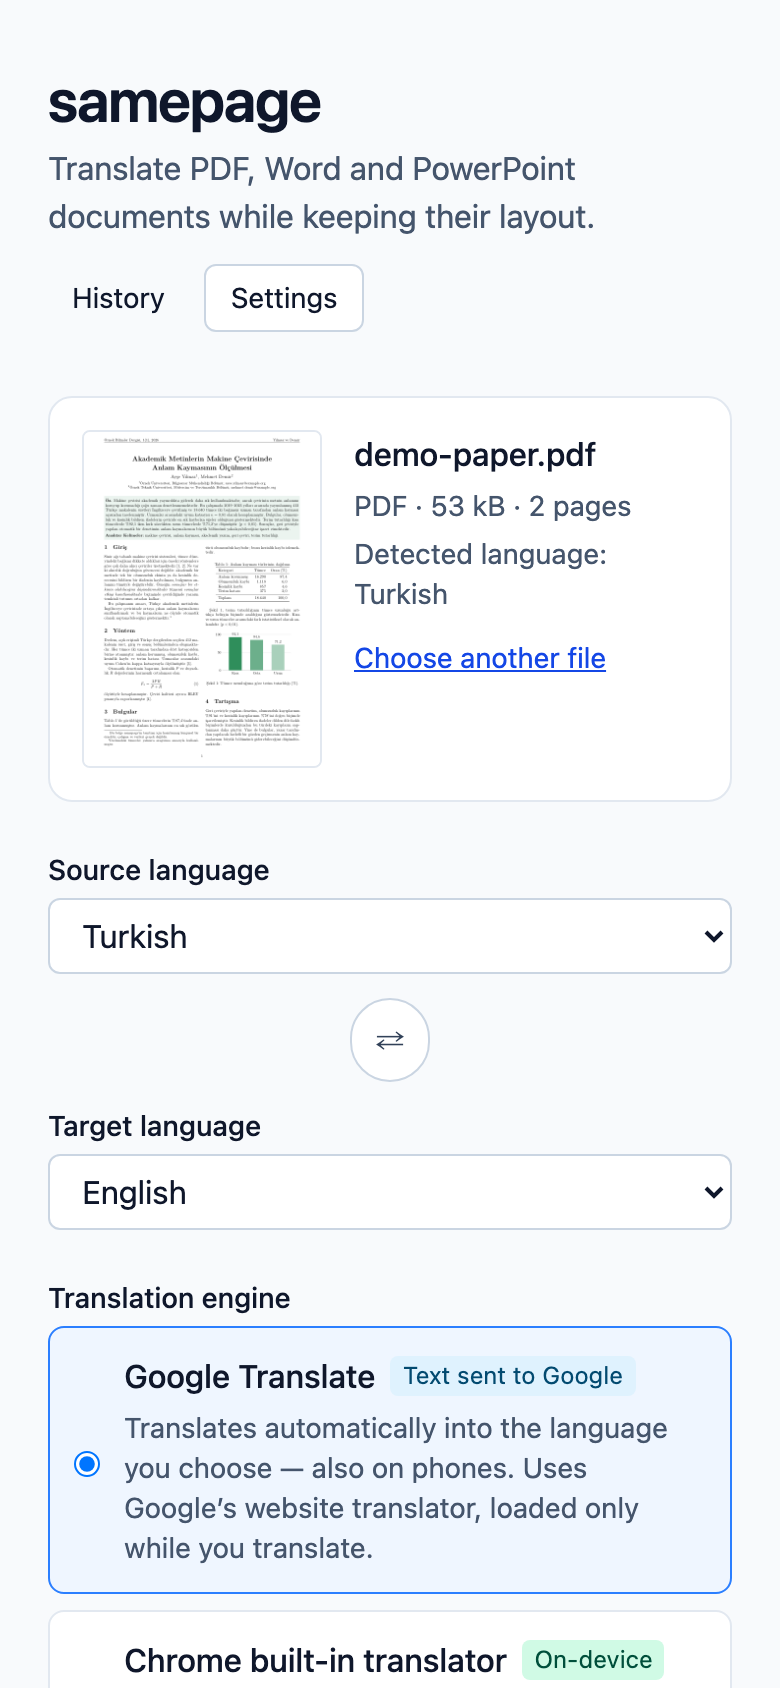
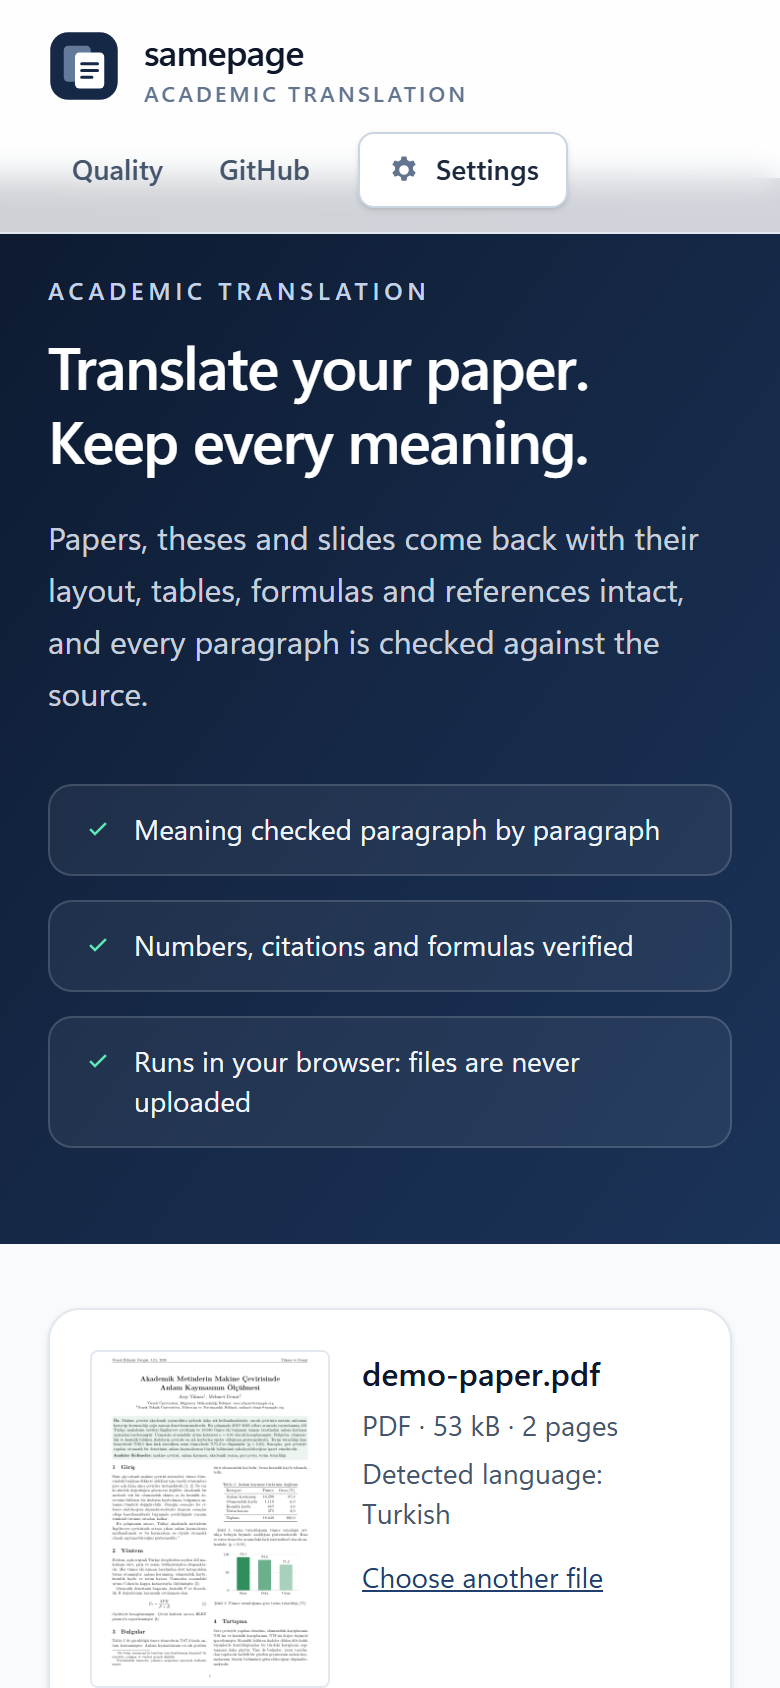
1.1.0: each paragraph from its own language, word documents tested on 54 papers, new look

diff --git a/README.md b/README.md
@@ -45,9 +45,13 @@ the paper says.
   found with full, booktabs or single rules and also without any rule, from their caption, and
   keep their rules and column alignment; footnote marks become Word footnotes and every
   reference entry its own paragraph.
-- **Meaning first.** Numbers, units, citations, formulas and identifiers are locked. A meaning
-  check translates the result back and flags lost negations, softened or hardened claims
-  ("results suggest" → "results reveal") and changed quantifiers ("most" → "all"). You can
+- **Meaning first.** Numbers, units, citations, formulas and identifiers are locked. Each
+  paragraph is translated from its own language — an English abstract in a Turkish paper, a German
+  quotation, the Arabic body of a paper with an English abstract — and one already in the target
+  language stays as written. Code in Word and PowerPoint files (commands, listings) stays as
+  written. A meaning check translates the result back and flags lost negations, softened or
+  hardened claims ("results suggest" → "results reveal") and changed quantifiers ("most" → "all"),
+  asking again in English before it reports one. You can
   compare every paragraph sentence by sentence, even in a language you do not read. With your own
   Claude key, the flagged sentences are revised automatically (British or American spelling).
 - **Abstract only.** For journals that ask for a second-language abstract: samepage finds the
@@ -87,7 +91,7 @@ the paper says.
 It works the same on a phone:
 
 <p align="center">
-  <img src="media/phone.png" alt="samepage on a phone: the demo paper chosen, Turkish to English, Google Translate engine" width="260">
+  <img src="media/phone.png" alt="samepage on a phone: the demo paper chosen and its language detected" width="260">
   &nbsp;&nbsp;&nbsp;
   <img src="media/phone-result.png" alt="samepage on a phone: downloads, quality report and preview after the translation" width="260">
 </p>
@@ -153,14 +157,20 @@ trips (a paper translated into another language and back) to measure meaning dri
 runs with the free Google engine on 29 papers in all 17 languages (about 8,100 paragraphs,
 including chemistry, law and mathematical physics),
 99.9 % of the paragraphs came out translated with their numbers intact; the rest, OCR noise of a
-1979 scan, were kept in the original and reported. About 2 % carried a warning to review. Those
-papers are not part of this repository; [`media/demo-paper.pdf`](media/demo-paper.pdf) is a
+1979 scan, were kept in the original and reported. About 2 % carried a warning to review. Word
+documents were run the same way: 54 papers from Zenodo in 19 languages (about 14,300 paragraphs,
+with code, tables, footnotes, text boxes, Arabic and mixed-language papers), 99.9 % translated,
+2.2 % with a warning, the structure of every file intact. Those papers are not part of this
+repository; [`media/demo-paper.pdf`](media/demo-paper.pdf) is a
 fictional paper written for the demo, so you can try samepage with it.
 
 ## Limitations
 
-- Not supported: right-to-left scripts, vertical CJK, encrypted PDFs, form field values and text
-  inside raster images (left untouched and reported).
+- Not supported: right-to-left and CJK target languages, right-to-left and CJK PDFs, vertical
+  CJK, encrypted PDFs, form field values and text inside raster images (left untouched and
+  reported). Arabic, Hebrew, Persian, Chinese, Japanese or Korean passages in a Word or PowerPoint
+  file are translated from their language into the offered ones (right-to-left text then reads
+  left to right).
 - OCR errors (rare letters, names, small print) carry into the translation of scanned PDFs, and
   the scanned text is covered with the paper colour rather than removed; hard-to-read pages are
   flagged.

diff --git a/CHANGELOG.md b/CHANGELOG.md
@@ -13,6 +13,10 @@ All notable changes to samepage are documented here. The format follows
   long one shrank the type of every paragraph and the short ones left gaps under them.
 - A quieter, corporate look: one navy brand colour, a sticky header, a hero band, refined cards,
   form controls and buttons.
+- Each paragraph is translated from its own language: an Arabic or Indonesian paper with an
+  English abstract, a Russian one with English chapters, a Turkish one quoting German. Given as
+  the paper's language, Google returned such paragraphs unchanged or made up fluent text that
+  said something else. A paragraph already in the target language stays as written.
 
 ### Fixed
 
@@ -21,6 +25,27 @@ All notable changes to samepage are documented here. The format follows
   translation; a bullet the slide draws twice over itself is translated once and its copy erased.
 - Word: a table stays in one column with its caption.
 - A name in code style ("libraries.io") keeps its style alone, not the rest of the sentence.
+- Word documents, from 54 papers in 19 languages translated and read:
+  - Code stays as written, in Word and on slides: commands in a sentence ("python3 --version"),
+    listings and lines such as "import hashlib"; a comment in words and a label in a typewriter
+    font are translated. A lab sheet that is half code no longer counts as set in a typewriter
+    face.
+  - Arabic and Hebrew translated into a left-to-right language read left to right, paragraphs,
+    tables and sections (and slides), at the document's size for Latin letters.
+  - A reference list in an appendix ("Anhang B. Literatur und lokale Quellen") and under its own
+    sub-headings is kept as published; a note in prose among the entries is translated.
+  - Documents saved by the .NET Open XML SDK (a byte-order mark before each part) open.
+  - Dates and times beside a time zone ("02.09., 14:03–14:12 UTC") are kept as written.
+- An English term a heading gives in brackets ("Arquitectura de Invocación de Herramientas (Tool
+  Calling)") is kept where Google dropped it as said twice; inside a sentence such a term left out
+  is noted, not flagged. Superscripts and subscripts stay on their character ("W/m²", not
+  "W/m ²"). A short heading in capitals is translated in sentence case and set in capitals again:
+  Google read "SÜREÇ" as "PERIOD".
+- Fewer false alarms: ISO dates written the target's way, a date range spelled out, a count of one
+  written as a word ("1 groter stuk" → "bir büyük parça", which had made the retries hold the
+  number and break the sentence), hours of the clock ("14 órakor" → "saat 2'de", "03:00"), a
+  number and a half ("4 heures et demie" → "4,5 saat"), a number with its thousand in one word
+  ("százezer" → "100.000") and sentences that open with a figure.
 
 ## [1.0.1] — 2026-11-02
 
